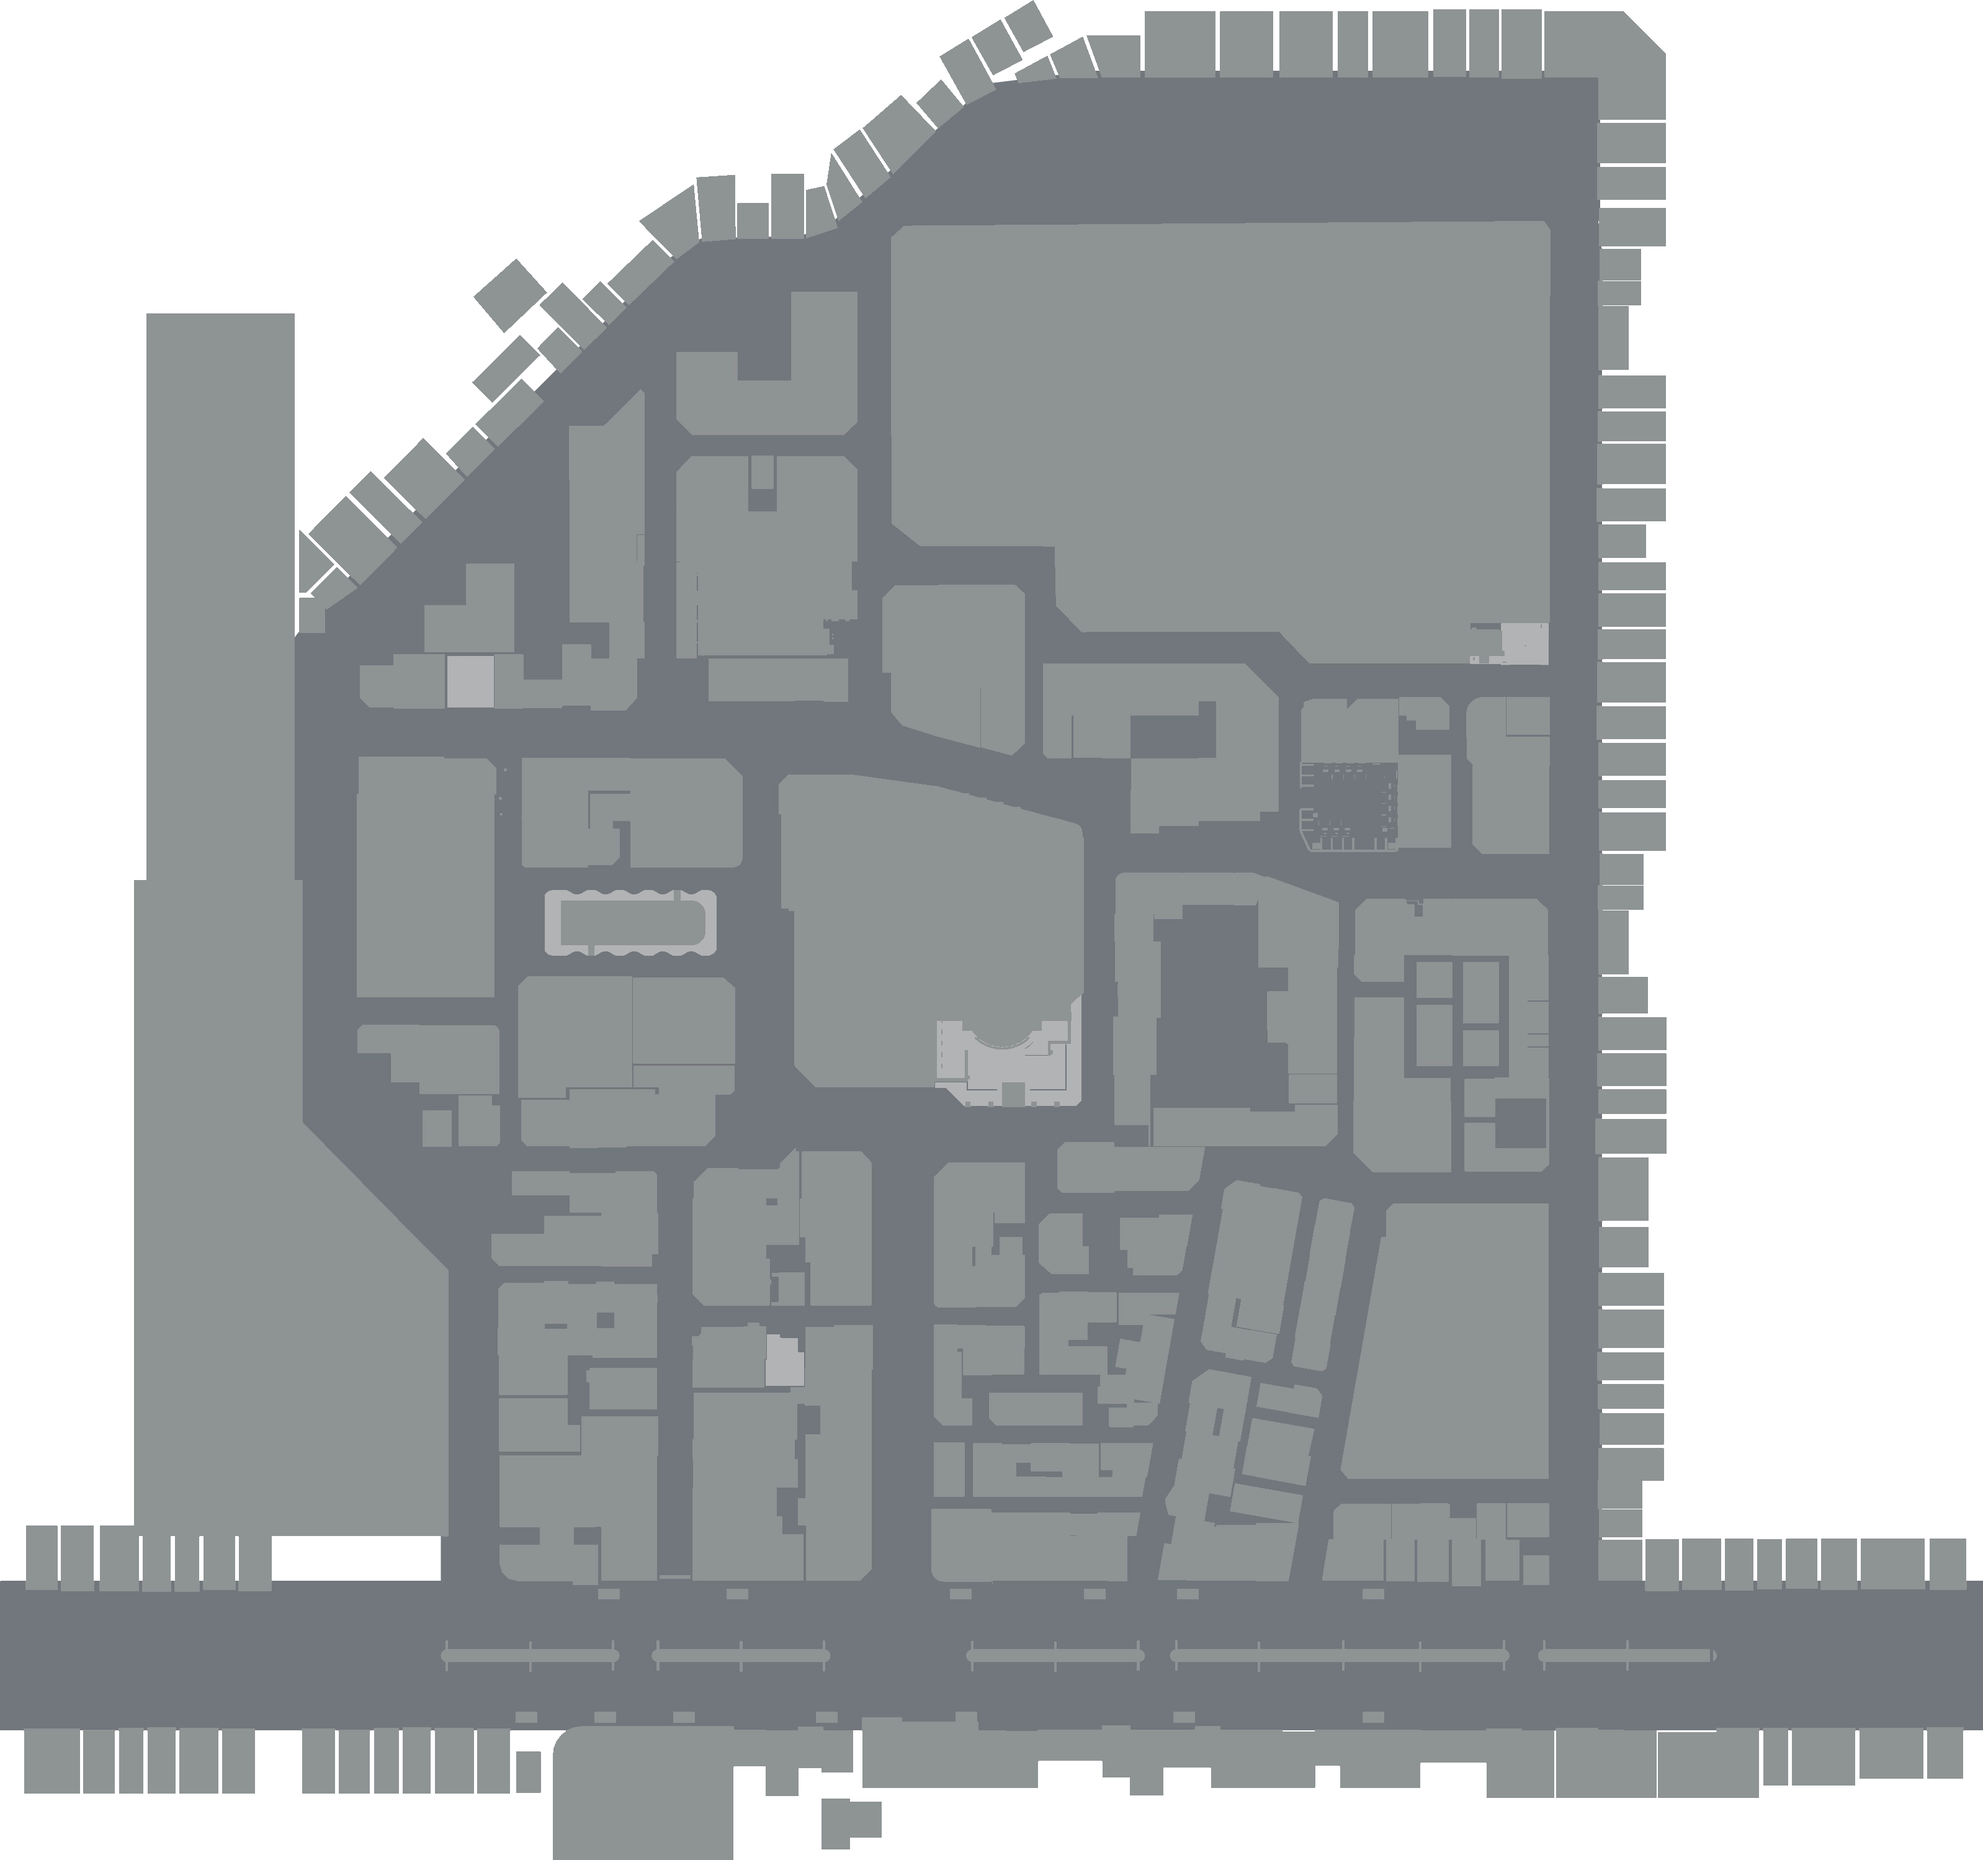
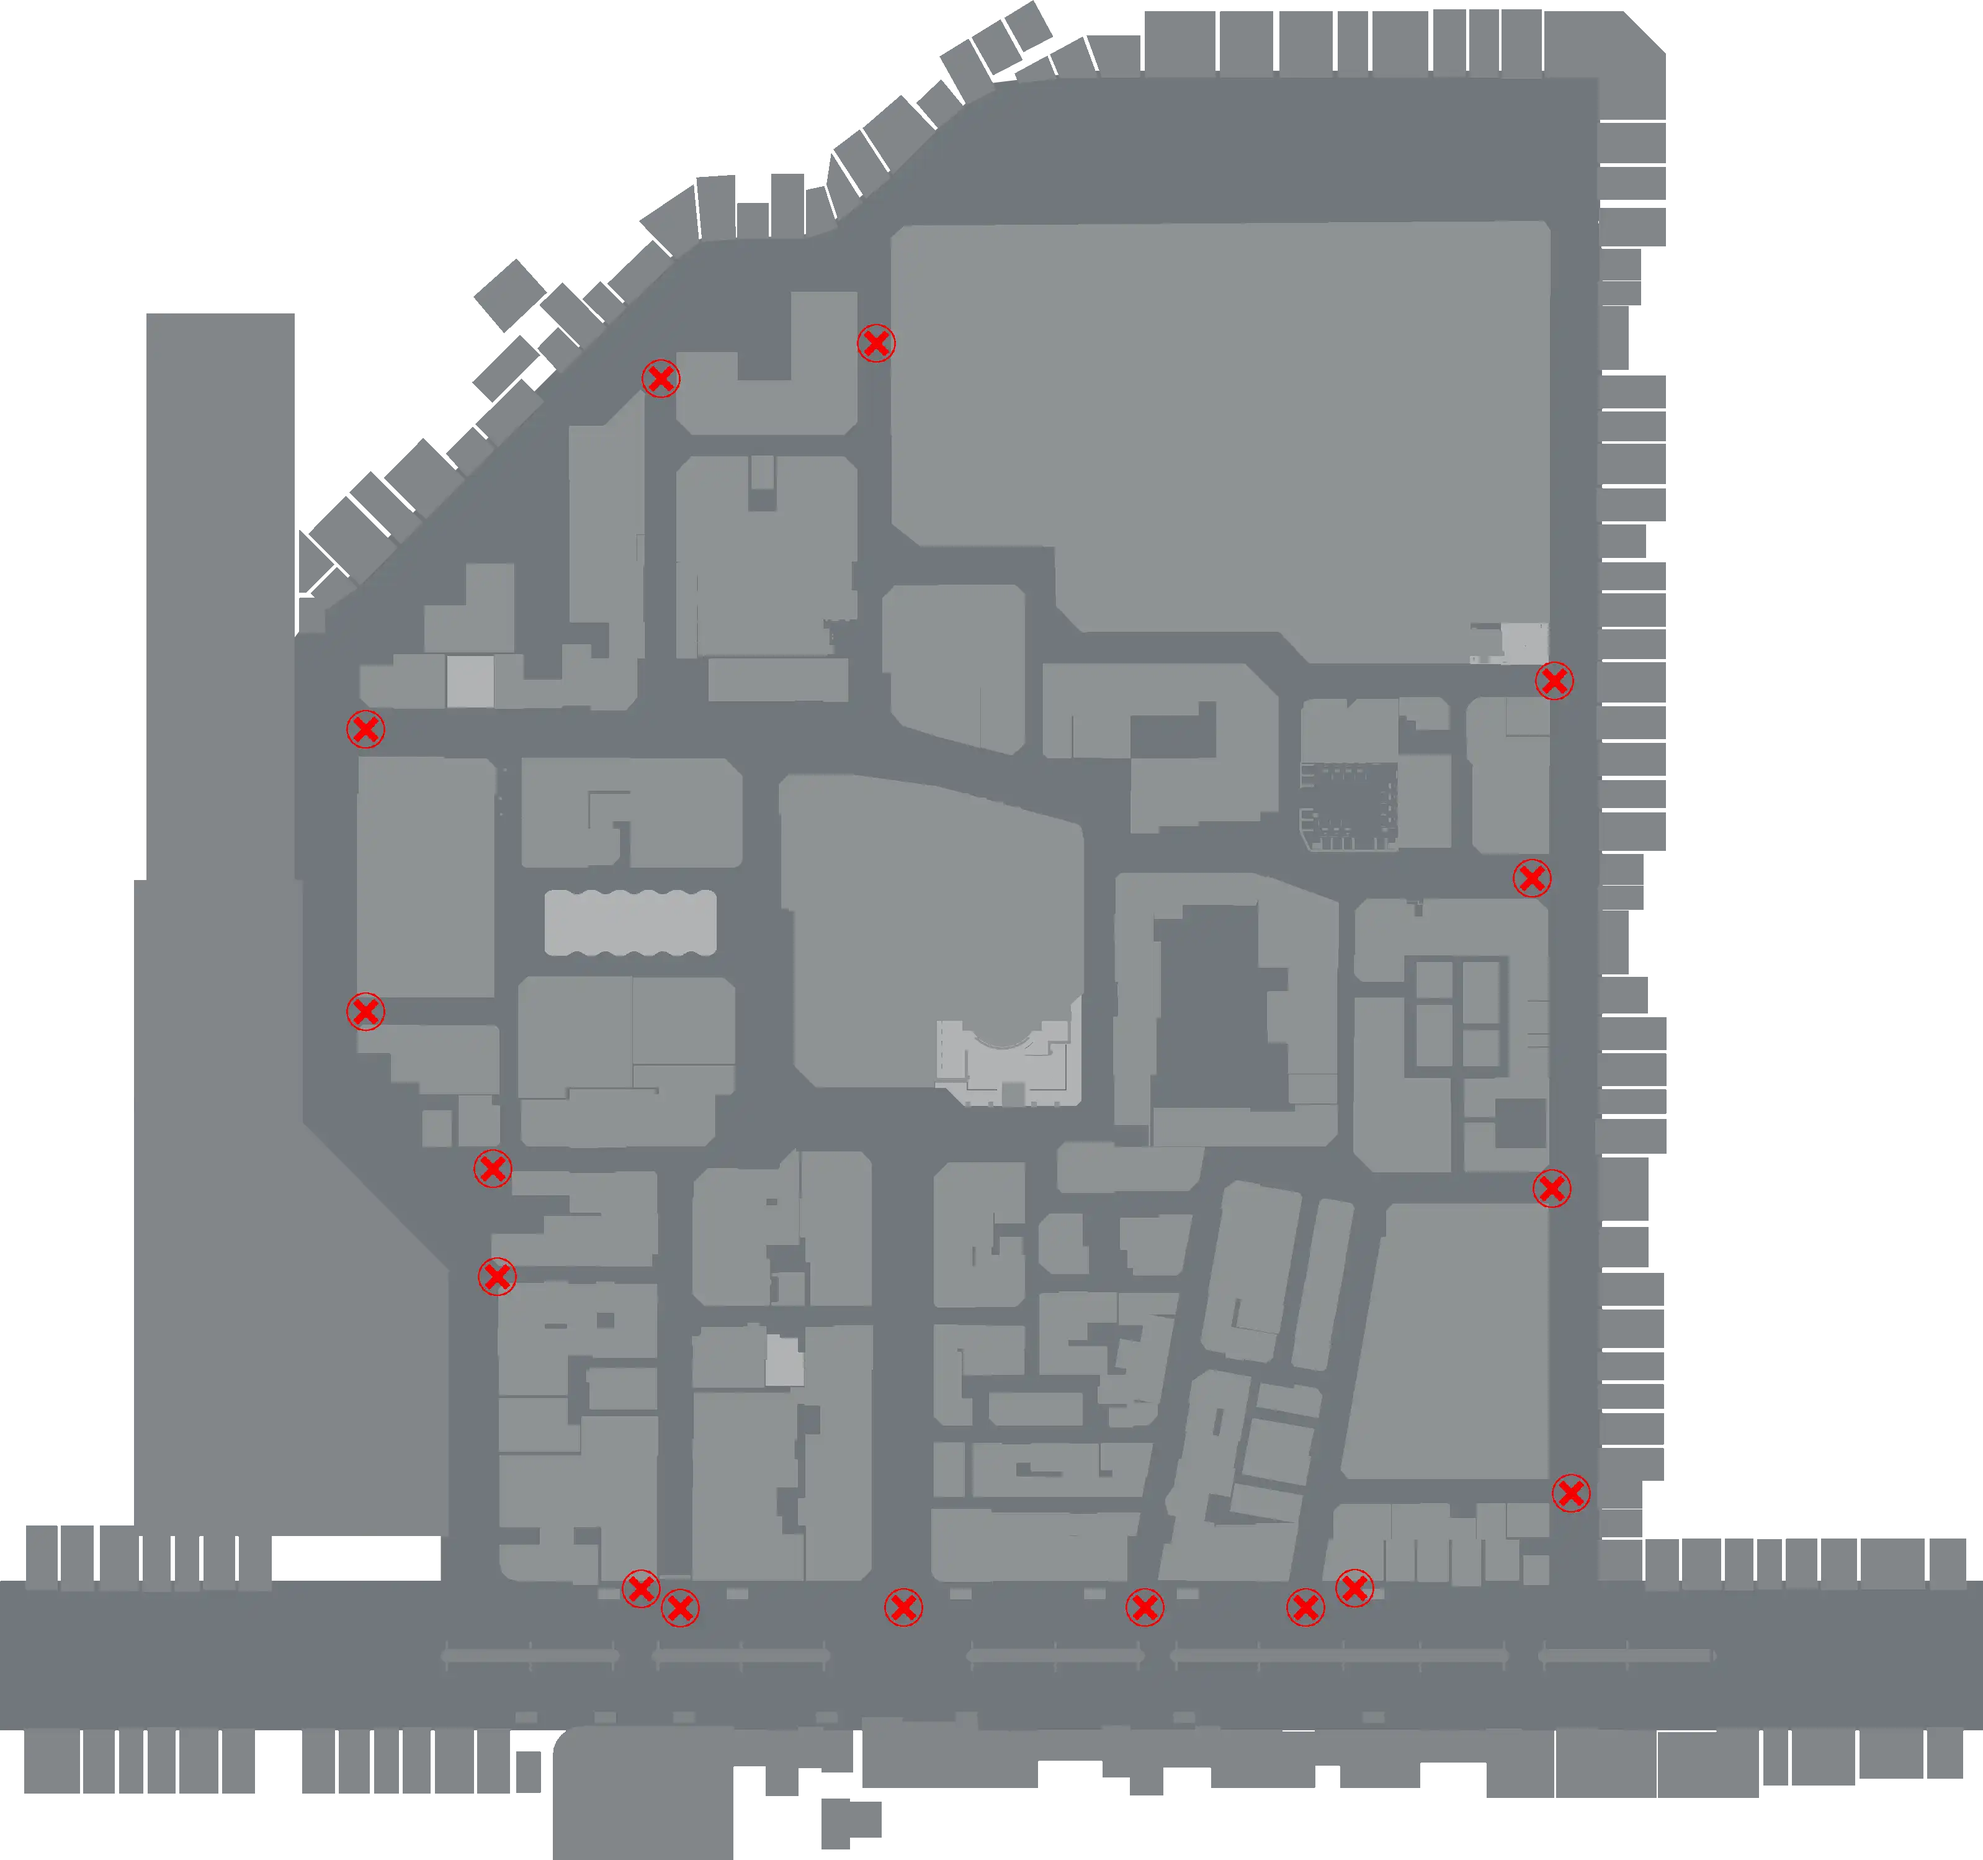
markers now give colour hints fixed the yakuza kawami 2 map  to be more readable

diff --git a/frontend/src/components/Game.vue b/frontend/src/components/Game.vue
@@ -77,6 +77,7 @@
 import { Options, Vue } from "vue-class-component";
 import { position } from "../games";
 import { FinalGuess, saveGuess, getGuessesForLocation } from "../history";
+import mix from "mix-css-color";
 
 const pic_count = 4;
 
@@ -344,6 +345,7 @@ const pic_count = 4;
 
       const guesses = getGuessesForLocation(document, this.number);
       const guess_size = ctx.canvas.height * 0.05;
+      let i = 0;
       for (const guess of guesses) {
         const pos = this.percentAsPos(guess.x_per, guess.y_per);
         const dist_x = Math.abs(guess.x_per - this.target.x);
@@ -354,10 +356,15 @@ const pic_count = 4;
           colour = "green";
         } else {
           const dist = dist_x + dist_y;
-          if (dist < this.threshold * 3.5) {
-            colour = "#FF0000";
+          console.log(`${i} dist:${dist} threshold:${this.threshold}`);
+          if (dist < this.threshold * 5) {
+            colour = mix(
+              "red",
+              "yellow",
+              ((dist - this.threshold) / (this.threshold * 4)) * 100
+            ).hex;
           } else {
-            colour = "#8B0000";
+            colour = "red";
           }
         }
         ctx.strokeStyle = colour;
@@ -368,6 +375,7 @@ const pic_count = 4;
           guess_size
         );
         ctx.stroke();
+        i++;
       }
 
       if (this.selected_x && this.selected_y) {
